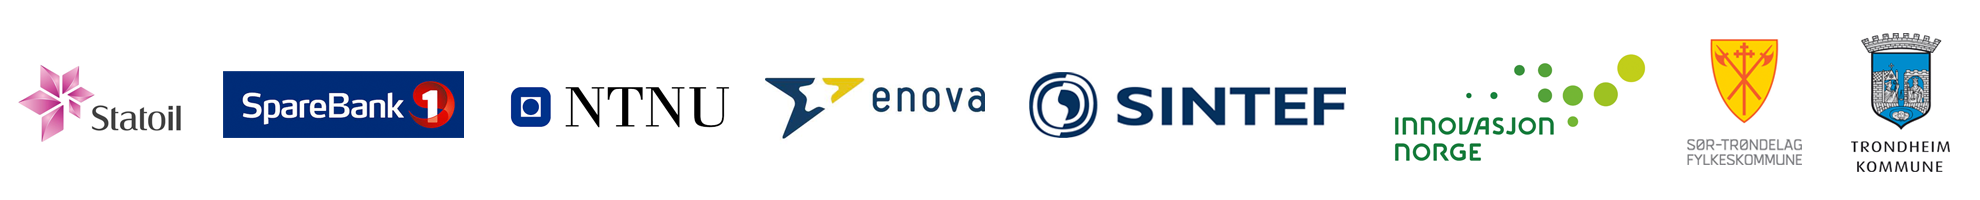
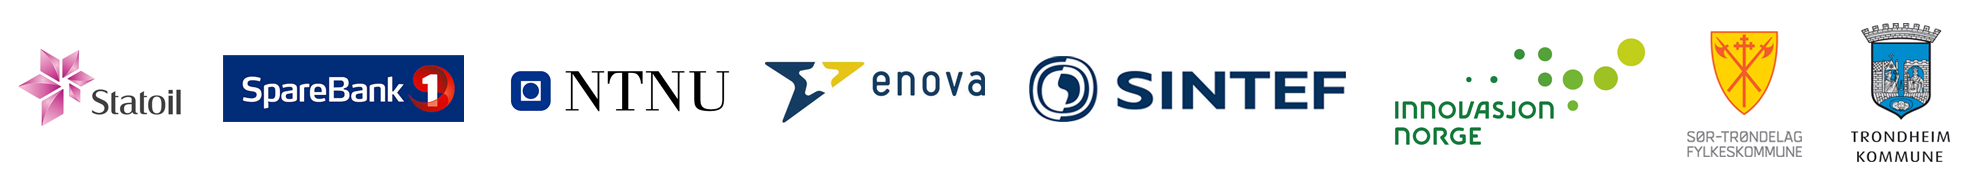
Sponsors

diff --git a/frontend/src/app/app.scss b/frontend/src/app/app.scss
@@ -46,6 +46,7 @@ h1.logo {
   width: 100%;
   background: transparent url('../images/logo-with-name.png') center center no-repeat;
   background-size: 260px 37px;
+  margin-bottom: 20px;
 }
 h1 {
   font-size: 28px;
@@ -67,22 +68,16 @@ h1 {
 .techex-badge {
   display: block;
   background: transparent center center no-repeat;
+  height: 30px;
+  width: 100px;
+  background-size: 20px 30px;
   &.techex-badge-gold {
-    height: 50px;
-    width: 100px;
-    background-size: 34px 50px;
     background-image: url('../images/badge_gold.png')
   }
   &.techex-badge-silver {
-    height: 40px;
-    width: 100px;
-    background-size: 27px 40px;
     background-image: url('../images/badge_silver.png')
   }
   &.techex-badge-bronze {
-    height: 30px;
-    width: 100px;
-    background-size: 20px 30px;
     background-image: url('../images/badge_bronze.png')
   }
 }
@@ -107,7 +102,7 @@ h1 {
     list-style: none;
   }
   .session {
-    margin-bottom: 2.5em;
+    margin-bottom: 2em;
     .end {
       margin-right: 2em;
       &:before {
@@ -131,41 +126,8 @@ h1 {
 }
 
 
-.sponsors {
-  width: 90%;
-  padding: 1em 1em;
-  height: 100px;
-  overflow: hidden;
-  position: relative;
-
-  .viewport {
-    &.moving {
-      animation: moveLeft 1 1s linear;
-    }
-
-    position: absolute;
-    height: 100px;
-
-    border-width: 1px 0;
-    border-style: solid;
-    border-color: #cccccc;
-
-    white-space: nowrap;
-
-    .box {
-      display: inline-block;
-      width: 100px;
-      height: 100%;
-
-      border: 1px solid #eee;
-      margin: 0 5px;
-
-      text-align: center;
-    }
-  }
+.sponsor-logos {
+  position: fixed;
+  bottom: 0;
+  width: 100%;
 }
-@keyframes moveLeft {
-  0% { transform: translateX(0) }
-  100% { transform: translateX(-110px) }
-}
-

diff --git a/frontend/src/app/components/sponsors/sponsors.html b/frontend/src/app/components/sponsors/sponsors.html
@@ -1,1 +1,1 @@
-<img src="images/sponsors.png">
+<img src="images/sponsors.png" class="sponsor-logos">
